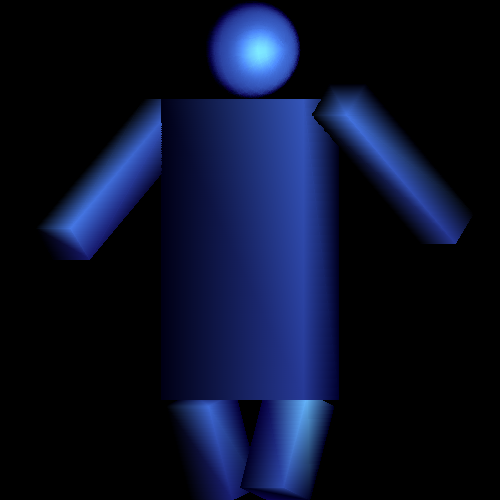
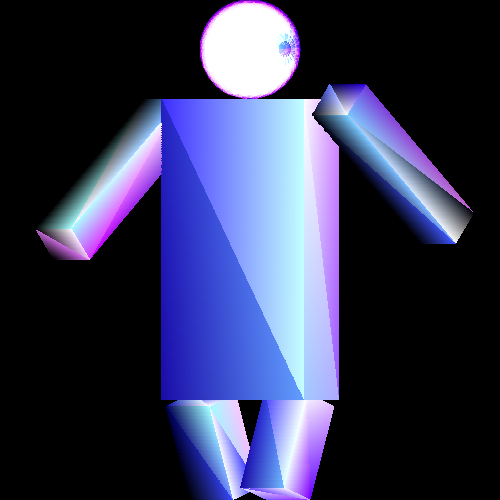
multiple light vectors

diff --git a/draw.c b/draw.c
@@ -69,9 +69,9 @@ triangles
 04/16/13 13:13:27
 jdyrlandweaver
 ====================*/
-void draw_polygons( struct matrix * polygons, screen s, color c, struct matrix* zbuf, struct constants *rcolor, color ambient, struct light *point) {
+void draw_polygons( struct matrix * polygons, screen s, color c, struct matrix* zbuf, struct constants *rcolor, color ambient, struct light **point) {
   // printf("DRAWING\n");
-	int i,j,x,y;  
+  int i,j,k,x,y;  
 	double xB, yB, xM, yM, xT, yT, d0, d1, d2;
 	double ax, ay, az, bx, by, bz;
 	double * normal;
@@ -162,7 +162,7 @@ void draw_polygons( struct matrix * polygons, screen s, color c, struct matrix* 
 		    //if(j==1)
 		      //printf("%f %f %f\n",normal[0],normal[1],normal[2]);
 		    int add = 1;
-		    int k;
+		    
 		    if(vertices->lastcol<=8){
 		    for(k = 0; k < to_add[j]->lastcol;k++)
 		      if(nearly_equal(to_add[j]->m[0][k],normal[0])
@@ -270,6 +270,7 @@ void draw_polygons( struct matrix * polygons, screen s, color c, struct matrix* 
 			//GOURAUD SHADING HERE=====================================================================
 			//calculating I for each vertex of this polygon, sets up cT, cM, cB
 			// printf("here\n");
+			for( k = 0; point[k]; k++){
 			for( j = 0; j < vertices->lastcol; j++){
 
 				if(nearly_equal(vertices->m[0][j], xT)&&nearly_equal(vertices->m[1][j],yT)&&nearly_equal(vertices->m[2][j],zT)){
@@ -284,13 +285,13 @@ void draw_polygons( struct matrix * polygons, screen s, color c, struct matrix* 
 					//printf("normal after: %f, %f, %f\n", v_normals->m[0][j], v_normals->m[1][j], v_normals->m[2][j]);
 					//printf("normal after: %f, %f, %f\n", normal[0], normal[1], normal[2]);
 					normalize(normal);
-					light_v[0] = xT-point->l[0];
-					light_v[1] = yT-point->l[1];
-					light_v[2] = zT-point->l[2];
+					light_v[0] = xT-point[k]->l[0];
+					light_v[1] = yT-point[k]->l[1];
+					light_v[2] = zT-point[k]->l[2];
 					normalize(light_v);
-					Id.red = point->c[0] * rcolor->g[0] * calculate_dot(light_v, normal) * -1;
-					Id.green = point->c[1] * rcolor->g[1] * calculate_dot(light_v, normal) * -1;
-					Id.blue = point->c[2] * rcolor->g[2] * calculate_dot(light_v, normal) * -1;
+					Id.red = point[k]->c[0] * rcolor->g[0] * calculate_dot(light_v, normal) * -1;
+					Id.green = point[k]->c[1] * rcolor->g[1] * calculate_dot(light_v, normal) * -1;
+					Id.blue = point[k]->c[2] * rcolor->g[2] * calculate_dot(light_v, normal) * -1;
 
 					// printf("light_v: %f, %f, %f", light_v[0], light_v[1], light_v[2]);
 					// printf("normal: %f, %f, %f", normal[0], normal[1], normal[2]);
@@ -300,21 +301,17 @@ void draw_polygons( struct matrix * polygons, screen s, color c, struct matrix* 
 					reflect[0] = 2 * calculate_dot(light_v, normal) * normal[0] - light_v[0];
 					reflect[1] = 2 * calculate_dot(light_v, normal) * normal[1] - light_v[1];
 					reflect[2] = 2 * calculate_dot(light_v, normal) * normal[2] - light_v[2];
-					Is.red = point->c[0] * rcolor->b[0] * calculate_dot(reflect, view) * calculate_dot(reflect, view) * calculate_dot(reflect, view);
-					Is.green = point->c[1] * rcolor->b[1] * calculate_dot(reflect, view) * calculate_dot(reflect, view) * calculate_dot(reflect, view);
-					Is.blue = point->c[2] * rcolor->b[2] * calculate_dot(reflect, view) * calculate_dot(reflect, view)  * calculate_dot(reflect, view);
+					Is.red = point[k]->c[0] * rcolor->b[0] * calculate_dot(reflect, view) * calculate_dot(reflect, view) * calculate_dot(reflect, view);
+					Is.green = point[k]->c[1] * rcolor->b[1] * calculate_dot(reflect, view) * calculate_dot(reflect, view) * calculate_dot(reflect, view);
+					Is.blue = point[k]->c[2] * rcolor->b[2] * calculate_dot(reflect, view) * calculate_dot(reflect, view)  * calculate_dot(reflect, view);
 
 					// printf("cT before before: %f, %f, %f\n",cT.red, cT.green, cT.blue);
 					// printf("cT Ia: %f, Id: %f, Is: %f\n", Ia.red, Id.red, Is.red);
-					cT.red = Ia.red + Id.red + Is.red;
-					cT.red = cT.red>255?255:cT.red;
-					cT.red = cT.red<0?0:cT.red;
-					cT.blue = Ia.blue + Id.blue + Is.blue;
-					cT.blue = cT.blue>255?255:cT.blue;
-					cT.blue = cT.blue<0?0:cT.blue;      
-					cT.green = Ia.green + Id.green + Is.green;
-					cT.green = cT.green>255?255:cT.green;
-					cT.green = cT.green<0?0:cT.green;
+					cT.red += Ia.red + Id.red + Is.red;
+      					cT.blue += Ia.blue + Id.blue + Is.blue;
+					cT.green += Ia.green + Id.green + Is.green;
+					
+					
 					// printf("cT before: %f, %f, %f",cT.red, cT.green, cT.blue);
 				}
 				if(nearly_equal(vertices->m[0][j], xM)&&nearly_equal(vertices->m[1][j],yM)&&nearly_equal(vertices->m[2][j],zM)){
@@ -325,30 +322,25 @@ void draw_polygons( struct matrix * polygons, screen s, color c, struct matrix* 
 					normal[1]=v_normals->m[1][j];
 					normal[2]=v_normals->m[2][j];
 					normalize(normal);
-					light_v[0] = xM-point->l[0];
-					light_v[1] = yM-point->l[1];
-					light_v[2] = zM-point->l[2];
+					light_v[0] = xM-point[k]->l[0];
+					light_v[1] = yM-point[k]->l[1];
+					light_v[2] = zM-point[k]->l[2];
 					normalize(light_v);
-					Id.red = point->c[0] * rcolor->g[0] * calculate_dot(light_v, normal) * -1;
-					Id.green = point->c[1] * rcolor->g[1] * calculate_dot(light_v, normal) * -1;
-					Id.blue = point->c[2] * rcolor->g[2] * calculate_dot(light_v, normal) * -1;
+					Id.red = point[k]->c[0] * rcolor->g[0] * calculate_dot(light_v, normal) * -1;
+					Id.green = point[k]->c[1] * rcolor->g[1] * calculate_dot(light_v, normal) * -1;
+					Id.blue = point[k]->c[2] * rcolor->g[2] * calculate_dot(light_v, normal) * -1;
 
 					reflect[0] = 2 * calculate_dot(light_v, normal) * normal[0] - light_v[0];
 					reflect[1] = 2 * calculate_dot(light_v, normal) * normal[1] - light_v[1];
 					reflect[2] = 2 * calculate_dot(light_v, normal) * normal[2] - light_v[2];
-					Is.red = point->c[0] * rcolor->b[0] * calculate_dot(reflect, view) * calculate_dot(reflect, view) * calculate_dot(reflect, view);
-					Is.green = point->c[1] * rcolor->b[1] * calculate_dot(reflect, view) * calculate_dot(reflect, view) * calculate_dot(reflect, view);
-					Is.blue = point->c[2] * rcolor->b[2] * calculate_dot(reflect, view) * calculate_dot(reflect, view)  * calculate_dot(reflect, view);
+					Is.red = point[k]->c[0] * rcolor->b[0] * calculate_dot(reflect, view) * calculate_dot(reflect, view) * calculate_dot(reflect, view);
+					Is.green = point[k]->c[1] * rcolor->b[1] * calculate_dot(reflect, view) * calculate_dot(reflect, view) * calculate_dot(reflect, view);
+					Is.blue = point[k]->c[2] * rcolor->b[2] * calculate_dot(reflect, view) * calculate_dot(reflect, view)  * calculate_dot(reflect, view);
 
-					cM.red = Ia.red + Id.red + Is.red;
-					cM.red = cM.red>255?255:cM.red;
-					cM.red = cM.red<0?0:cM.red;
-					cM.blue = Ia.blue + Id.blue + Is.blue;
-					cM.blue = cM.blue>255?255:cM.blue;
-					cM.blue = cM.blue<0?0:cM.blue;      
-					cM.green = Ia.green + Id.green + Is.green;
-					cM.green = cM.green>255?255:cM.green;
-					cM.green = cM.green<0?0:cM.green;
+					cM.red += Ia.red + Id.red + Is.red;
+					cM.blue += Ia.blue + Id.blue + Is.blue;					
+					cM.green += Ia.green + Id.green + Is.green;
+					
 				}
 				if(nearly_equal(vertices->m[0][j], xB)&&nearly_equal(vertices->m[1][j],yB)&&nearly_equal(vertices->m[2][j],zB)){
 					Ia.red = ambient.red * rcolor->r[0];
@@ -358,33 +350,49 @@ void draw_polygons( struct matrix * polygons, screen s, color c, struct matrix* 
 					normal[1]=v_normals->m[1][j];
 					normal[2]=v_normals->m[2][j];
 					normalize(normal);
-					light_v[0] = xB-point->l[0];
-					light_v[1] = yB-point->l[1];
-					light_v[2] = zB-point->l[2];
+					light_v[0] = xB-point[k]->l[0];
+					light_v[1] = yB-point[k]->l[1];
+					light_v[2] = zB-point[k]->l[2];
 					normalize(light_v);
-					Id.red = point->c[0] * rcolor->g[0] * calculate_dot(light_v, normal) * -1;
-					Id.green = point->c[1] * rcolor->g[1] * calculate_dot(light_v, normal) * -1;
-					Id.blue = point->c[2] * rcolor->g[2] * calculate_dot(light_v, normal) * -1;
+					Id.red = point[k]->c[0] * rcolor->g[0] * calculate_dot(light_v, normal) * -1;
+					Id.green = point[k]->c[1] * rcolor->g[1] * calculate_dot(light_v, normal) * -1;
+					Id.blue = point[k]->c[2] * rcolor->g[2] * calculate_dot(light_v, normal) * -1;
 
 					reflect[0] = 2 * calculate_dot(light_v, normal) * normal[0] - light_v[0];
 					reflect[1] = 2 * calculate_dot(light_v, normal) * normal[1] - light_v[1];
 					reflect[2] = 2 * calculate_dot(light_v, normal) * normal[2] - light_v[2];
-					Is.red = point->c[0] * rcolor->b[0] * calculate_dot(reflect, view) * calculate_dot(reflect, view) * calculate_dot(reflect, view);
-					Is.green = point->c[1] * rcolor->b[1] * calculate_dot(reflect, view) * calculate_dot(reflect, view) * calculate_dot(reflect, view);
-					Is.blue = point->c[2] * rcolor->b[2] * calculate_dot(reflect, view) * calculate_dot(reflect, view)  * calculate_dot(reflect, view);
+					Is.red = point[k]->c[0] * rcolor->b[0] * calculate_dot(reflect, view) * calculate_dot(reflect, view) * calculate_dot(reflect, view);
+					Is.green = point[k]->c[1] * rcolor->b[1] * calculate_dot(reflect, view) * calculate_dot(reflect, view) * calculate_dot(reflect, view);
+					Is.blue = point[k]->c[2] * rcolor->b[2] * calculate_dot(reflect, view) * calculate_dot(reflect, view)  * calculate_dot(reflect, view);
 
-					cB.red = Ia.red + Id.red + Is.red;
-					cB.red = cB.red>255?255:cB.red;
-					cB.red = cB.red<0?0:cB.red;
-					cB.blue = Ia.blue + Id.blue + Is.blue;
-					cB.blue = cB.blue>255?255:cB.blue;
-					cB.blue = cB.blue<0?0:cB.blue;      
-					cB.green = Ia.green + Id.green + Is.green;
-					cB.green = cB.green>255?255:cB.green;
-					cB.green = cB.green<0?0:cB.green;
+					cB.red += Ia.red + Id.red + Is.red;
+      					cB.blue += Ia.blue + Id.blue + Is.blue;
+					cB.green += Ia.green + Id.green + Is.green;
+
 				}
 				
-			}
+			}}
+			cT.red = cT.red>255?255:cT.red;
+	      		cT.red = cT.red<0?0:cT.red;
+			cT.green = cT.green>255?255:cT.green;
+			cT.green = cT.green<0?0:cT.green;
+			cT.blue = cT.blue>255?255:cT.blue;
+			cT.blue = cT.blue<0?0:cT.blue;
+			
+			cM.red = cM.red>255?255:cM.red;
+	      		cM.red = cM.red<0?0:cM.red;
+			cM.green = cM.green>255?255:cM.green;
+			cM.green = cM.green<0?0:cM.green;
+			cM.blue = cM.blue>255?255:cM.blue;
+			cM.blue = cM.blue<0?0:cM.blue;
+			
+			cB.red = cB.red>255?255:cB.red;
+	      		cB.red = cB.red<0?0:cB.red;
+			cB.green = cB.green>255?255:cB.green;
+			cB.green = cB.green<0?0:cB.green;
+			cB.blue = cB.blue>255?255:cB.blue;
+			cB.blue = cB.blue<0?0:cB.blue;
+			
 			// printf("here2\n");
 			//printf("here3\n");
 			//3 outlines

diff --git a/my_main.c b/my_main.c
@@ -216,9 +216,9 @@
   	struct constants *rcolor;
   	rcolor = (struct constants *)malloc(sizeof(struct constants));
   	color ambient;
-  	struct light *point;
-  	point = (struct light *)malloc(sizeof(struct light));
-
+  	struct light **point;
+  	point = (struct light **)malloc(10*sizeof(struct light*));
+	int l_index = 0;
   	first_pass();
 
   	if (num_frames > 1)
@@ -258,7 +258,8 @@
   				break;
   				case LIGHT:
 				  // printf("LIGHT\n");
-          point = lookup_symbol(op[i].op.light.p->name)->s.l;
+          point[l_index] = lookup_symbol(op[i].op.light.p->name)->s.l;
+	  l_index++;
           break;
   				case SPHERE:
 				  // printf("START\n");

diff --git a/draw.h b/draw.h
@@ -20,7 +20,7 @@ void add_polygons( struct matrix * points,
 		   double x1, double y1, double z1,
 		   double x2, double y2, double z2);
 void draw_lines( struct matrix * points, screen s, color c, struct matrix* zbuf);
-void draw_polygons( struct matrix * points, screen s, color c, struct matrix* zbuf, struct constants *rcolor, color ambient, struct light *point);
+void draw_polygons( struct matrix * points, screen s, color c, struct matrix* zbuf, struct constants *rcolor, color ambient, struct light **point);
 
 //advanced shapes
 void add_circle( struct matrix * points, 
